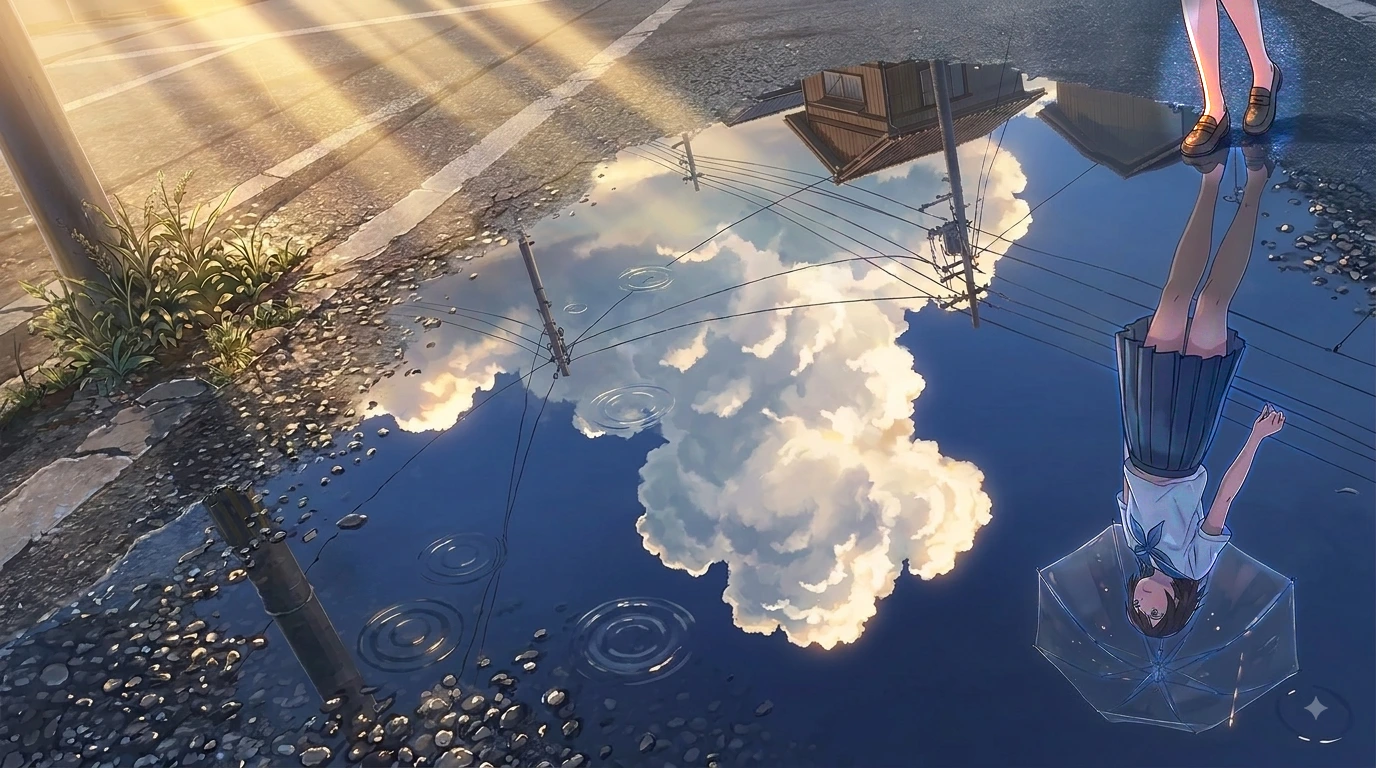
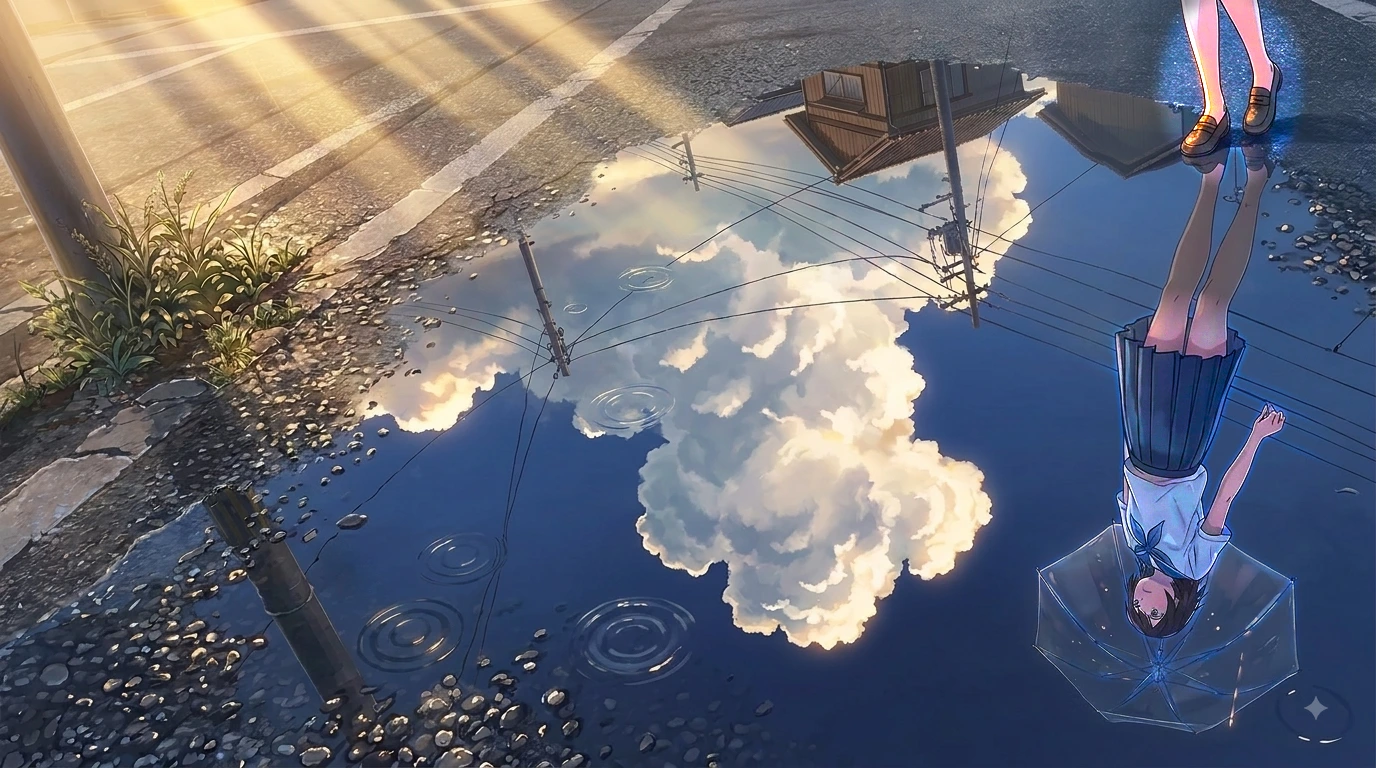
Take her a stop past the cloud rather than level with it
The last commit aimed her at the cloud's own range — 145 against 142 — because
matching the thing she stands next to was the obvious target. It was the floor,
not the target. Matched, she reads as no longer flat and still as the quieter of
the two, because the cloud is also the brightest thing in the frame: a subject
that ties the backdrop on every axis loses on all of them.

So each of the three moves up a notch, in the same order and for the reasons
they were separated in the first place: 2.05 -> 2.30 exposure, 1.35 -> 1.60
contrast, 1.35 -> 1.40 chroma. The chroma moves least because it is not the
only thing making colour — a power curve applied per channel spreads the
channels as it opens the picture, so most of the saturation arrives with the
contrast.

    5th / median / 95th  (range)    chroma
      27 /  97 / 200  (173)          0.482    her, now
      64 /  91 / 206  (142)          0.386    the cloud

Wider than the cloud and warmer than it, which is the right way round. The
range is affordable at the shadow end because the curve is a power about a
pivot and not a gain: the serge compresses as it darkens, to 27, instead of
clipping to nothing.

The stop after this one is not available and the source records why: at
2.45/1.70 her 99th percentile reaches 255 and the blouse stops having folds,
which is the same disappearance as the grey skirt at the other end, arrived at
from above.

Claude-Session: https://claude.ai/code/session_01187sXBCpqn5dLS7ihxN5fQ

diff --git a/scripts/puddle.js b/scripts/puddle.js
@@ -268,16 +268,31 @@ async function main() {
    * a gain to keep its shadow dark while its lit edge rose.
    *
    * So the same three things a colourist would reach for, in the order they are
-   * always reached for, and all in linear light:
+   * always reached for, and all in linear light.
+   *
+   * The three values below were first set to land her at the cloud's own range
+   * — 145 against 142 — on the reasoning that matching it was the target. It
+   * was not; it was the floor. Matched, she was no longer flat and she was
+   * still the quieter of the two, because the cloud is also the brightest thing
+   * in the frame and a subject that merely ties the backdrop loses. Where they
+   * sit now is a stop past that, and the stop after this one is not available:
+   * at 2.45/1.70 her 99th percentile reaches 255 and the blouse stops having
+   * folds, which is the same disappearance as the grey skirt at the other end.
    */
-  const CHARACTER_LIFT = 2.05;
+  const CHARACTER_LIFT = 2.30;
   /**
    * Contrast, about her own middle rather than the frame's. Pivoting on mid
    * grey would simply be a second exposure on her, since all of her is below
    * it; pivoting on her median darkens the serge and the hair and opens the
    * blouse and the rim on her legs, which is what "she is flat" actually means.
+   *
+   * At 1.60 her range is 173 against the cloud's 141 — wider than the thing she
+   * is standing next to, which is the right way round for a subject and is only
+   * affordable because the curve is a power about a pivot rather than a gain:
+   * the shadow end compresses as it darkens instead of clipping, so the serge
+   * goes to 27 rather than to nothing.
    */
-  const CHARACTER_CONTRAST = 1.35;
+  const CHARACTER_CONTRAST = 1.60;
   /**
    * Chroma about luma, so it moves colour without moving the brightness the
    * two constants above just settled. She is not a grey subject — the serge is
@@ -285,8 +300,13 @@ async function main() {
    * *ratios* between her channels, which is precisely why it could not restore
    * what a dark subject loses: chroma read at a distance is a distance, and
    * hers was small because she was dark.
+   *
+   * The smallest of the three moves, because it is not the only one making
+   * colour: a power curve on each channel separately spreads them as it opens
+   * the picture, so the contrast above carries chroma with it. 1.40 with that
+   * lands at 0.481 against the cloud's 0.385.
    */
-  const CHARACTER_CHROMA = 1.35;
+  const CHARACTER_CHROMA = 1.40;
   /**
    * Where the contrast pivots: her median in the photograph, 68 of 255,
    * measured over the same weighted pixels the grade is applied to and carried
